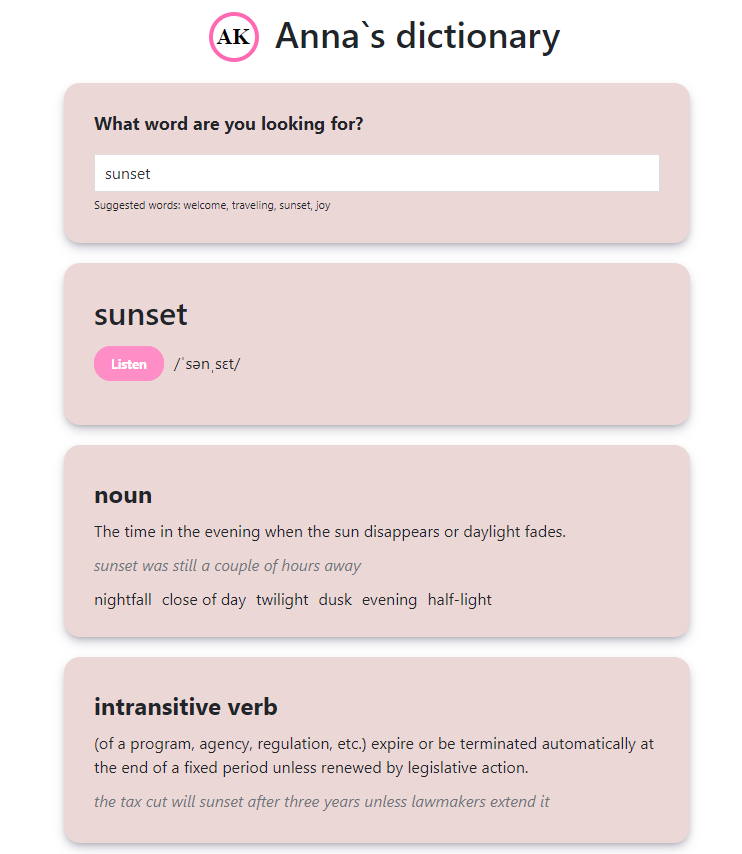
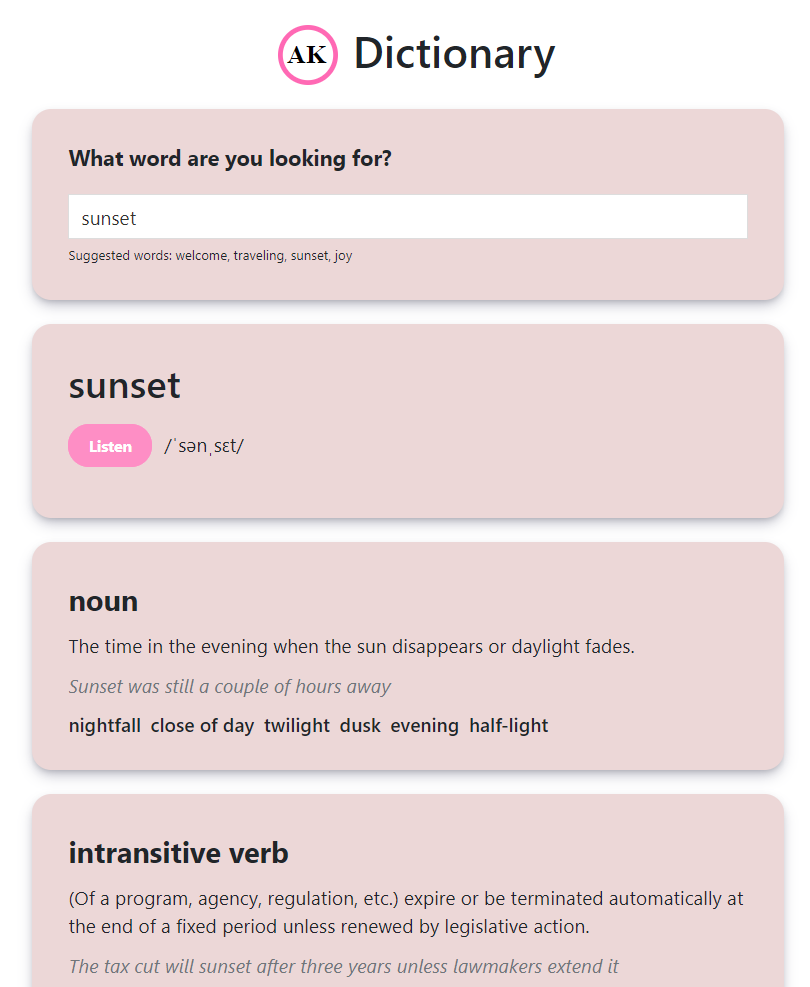
Style changes

Changed region(s): [[0.031, 0.0, 0.9919, 1.0]]

diff --git a/projects.html b/projects.html
@@ -60,6 +60,17 @@
                       </a>
                     </div>
                 </div>
+                <div class="col-md-6 mb-4" id="react">
+                  <img src="img/react.png" class="img-fluid projectthree mb-3" alt="Picture of the React Weather App">   
+                  <h3 class="text-center m-0">
+                      React Weather App
+                  </h3>
+                  <p class="text-center text-muted">Built with HTML, CSS and JS</p>
+                  <div class="text-center">
+                    <a href="https://confident-dijkstra-8805d3.netlify.app/" class="btn btn-branding" target="_blank">
+                      Launch App</a>
+                  </div>
+              </div>
                 <div class="col-md-6 mb-4"id="vanilla">
                     <img src="img/vanilla.png" class="img-fluid projecttwo mb-3" alt="Picture of the Vanilla Weather App"> 
                     <h3 class="text-center m-0">
@@ -68,17 +79,6 @@
                     <p class="text-center text-muted">Built with HTML, CSS and JS</p>
                     <div class="text-center">
                       <a href="https://distracted-kepler-d66682.netlify.app/" class="btn btn-branding" target="_blank">Launch App</a>
-                    </div>
-                </div>
-                <div class="col-md-6 mb-4" id="react">
-                    <img src="img/react.png" class="img-fluid projectthree mb-3" alt="Picture of the React Weather App">   
-                    <h3 class="text-center m-0">
-                        React Weather App
-                    </h3>
-                    <p class="text-center text-muted">Built with HTML, CSS and JS</p>
-                    <div class="text-center">
-                      <a href="https://confident-dijkstra-8805d3.netlify.app/" class="btn btn-branding" target="_blank">
-                        Launch App</a>
                     </div>
                 </div>
                 <div class="col-md-6 mb-4" id="dictionary">

diff --git a/src/styles.css b/src/styles.css
@@ -5,7 +5,7 @@
     --heading-color:#000000;
     --heading-font-family:'Playfair Display', serif;
     --default-font-family:'Poppins', sans-serif;
-    --box-shadow: rgba(0, 0, 0, 0.2) 0px 18px 50px -10px;
+    --box-shadow:rgba(60, 64, 67, 0.3) 0px 1px 2px 0px, rgba(60, 64, 67, 0.15) 0px 2px 6px 2px;
 }
 
 body{
@@ -148,7 +148,6 @@ h3 {
     transition: all 200ms ease-in-out;
 }
 
-
 .shecodes-link {
     font-weight: bold;
     text-decoration: none;
@@ -165,8 +164,8 @@ h3 {
 }
 
 .profilepicture {
-    display: block; 
-    margin: 0 auto;
+    display: block;
+    margin: 40px auto;
     max-width: 60%;
     padding: 20px;
     border-radius: 10px;
@@ -198,6 +197,7 @@ h3 {
 .email, .linkedin, .instagram {
     text-decoration: none;
     color: var(--branding-color);
+    box-shadow: var(--box-shadow);
 }
 
 .email:hover, .linkedin:hover, .instagram:hover {
@@ -213,6 +213,7 @@ footer .contact-box {
     background: var(--secondary-color);
     padding: 30px 100px;
     border-radius: 10px;
+    box-shadow: var(--box-shadow);
 }
 
 footer .contact-box p{
@@ -254,7 +255,7 @@ footer .github-link {
 
 @media (max-width:900px) {
     h1 {
-        font-size: 36px;
+        font-size: 24px;
         line-height: 56px;
     }
   

diff --git a/contact.html b/contact.html
@@ -47,7 +47,7 @@
       </nav>      
       <div class="content-container container d-flex justify-content-center">
         <div class="content text-center">
-            <h1 class="mb-5 mt-5">Get in touch!</h1>
+            <h1 class="mb-5 mt-5">Let`s get in touch!</h1>
             <h3>
               <i class="far fa-envelope"></i> Email:</h3>
             <h5>

diff --git a/index.html b/index.html
@@ -137,6 +137,6 @@
         title="Github repository">
          GitHub</a>.
       </p>
-    </footer>
+    </footer> 
 </body>
 </html>
